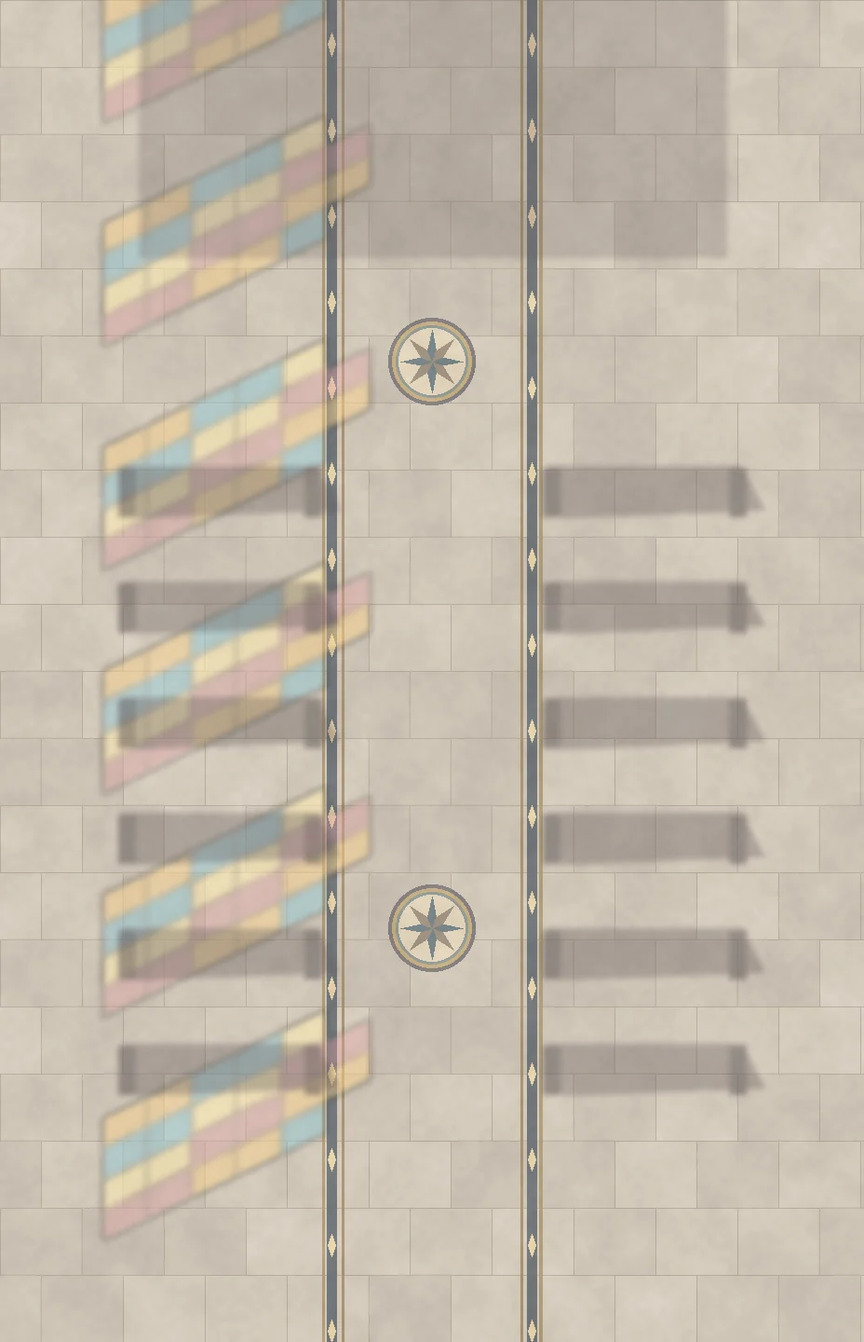
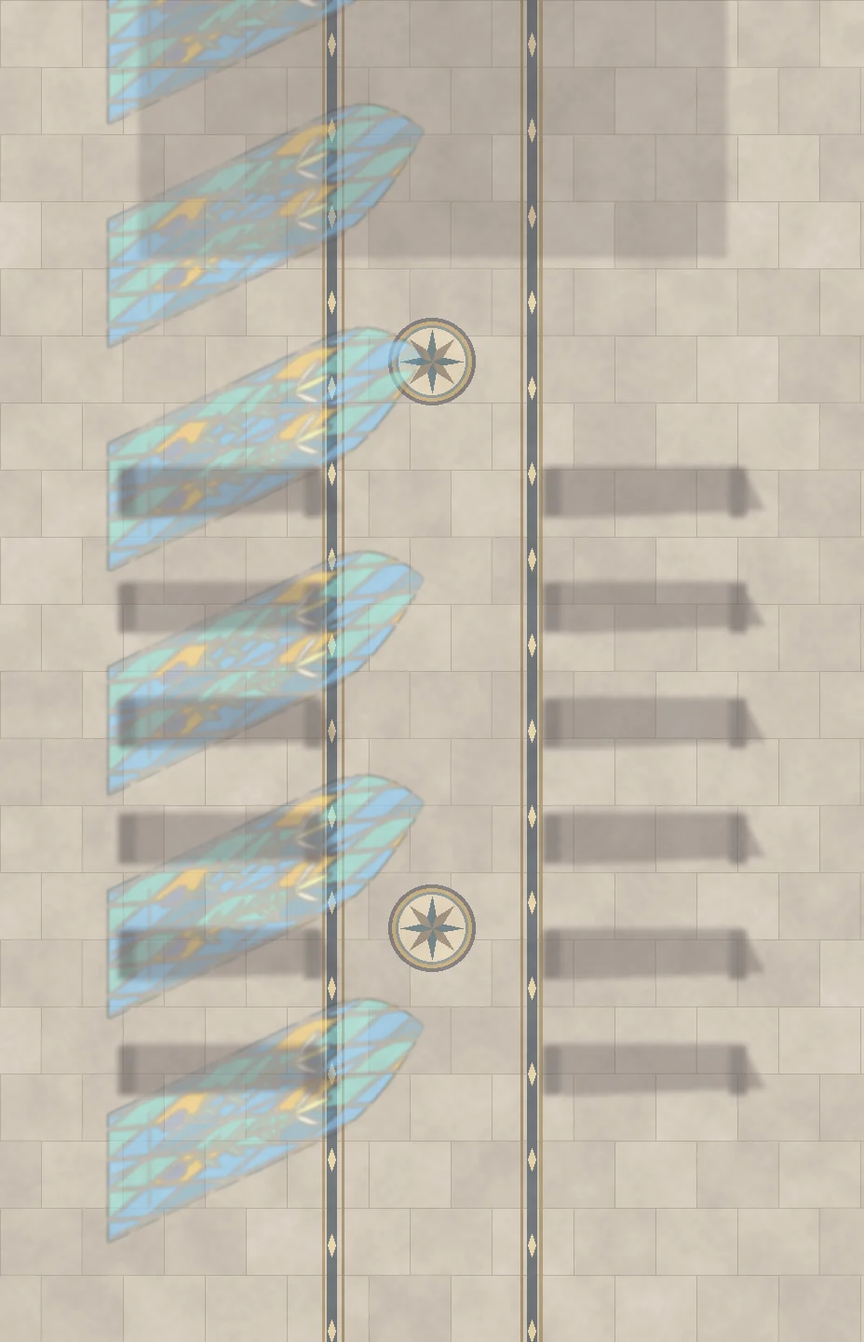
Open Dawn Chapel onto a cloister garden and transmit light through its stained glass

diff --git a/src/mmdVrShowcase/scenery/ChapelGarden.tsx b/src/mmdVrShowcase/scenery/ChapelGarden.tsx
@@ -1,0 +1,97 @@
+import {useEffect,useMemo} from 'react';
+import {useFrame} from '@react-three/fiber';
+import {Color,DoubleSide,Float32BufferAttribute,LatheGeometry,Vector2,type Texture} from 'three';
+import {BEDS,CISTERN,CYPRESSES,GARDEN,LOGGIA} from './ChapelLayout';
+import {Batch,type Part} from './SceneryBatch';
+import {span} from './detailParts';
+import {seededRandom} from './ClassroomLayout';
+import {noPick} from './sceneryPaint';
+import {useBakedSurface} from './useBakedSurface';
+import paving from './chapel-garden.webp';
+
+type V=Part['p'];const stone='#d7c9af',gold='#ba965f',slate='#607675',shade='#b4a68f';
+function lathe(profile:number[][],segments:number){return new LatheGeometry(profile.map(([r,h])=>new Vector2(r,h)),segments);}
+function gardenParts(){const blocks:Part[]=[],round:Part[]=[],trees:Part[]=[],hedges:Part[]=[],hills:Part[]=[],rnd=seededRandom(8483);
+  const box=(p:V,s:V,color:string,rz=0,ry=0)=>blocks.push({p,s,color,rz,ry});
+  const column=(p:V,s:V,color:string)=>round.push({p,s,color});
+  // Slate roof above the stone vault, and a pierced bellcote on the entrance gable.
+  for(const k of [-1,1]){const slope=.47;box([k*3.05,8.31,0],[6.10*Math.sqrt(1+slope*slope),.20,18.65],slate,-k*Math.atan(slope));
+    for(const z of [-9.23,9.23])blocks.push(span([0,9.82,z],[k*6.17,6.91,z],.21,stone));
+    box([k*5.82,5.89,0],[.20,1.91,18.20],stone);box([k*5.95,6.92,0],[.37,.14,18.58],shade);
+    for(const z of [-9,9])for(let i=0;i<18;i++){
+      const x=(i+.5)*5.8/18,height=9.69-slope*x;
+      const t=Math.acos(1-(1-x/5.8)*(1-Math.cos(Math.PI*.415)))/(Math.PI*.415);
+      const bottom=4.95+3.6*Math.sin(t*Math.PI*.415)/Math.sin(Math.PI*.415);
+      box([k*x,(height+bottom)/2,z-.018*Math.sign(z)],[5.8/18+.003,Math.max(.02,height-bottom+.06),.09],stone);
+    }
+    for(const z of [-9,-6,-3,0,3,6,9]){box([k*6,.43,z],[.78,.86,.64],shade);box([k*5.98,2.02,z],[.51,2.49,.49],stone);box([k*5.94,3.40,z],[.53,.25,.53],shade);}
+    box([k*.86,10.16,9.08],[.44,1.93,.52],stone);box([k*.86,10.91,9.08],[.50,.14,.61],shade);
+    blocks.push(span([k*1.21,11.13,9.08],[0,12.08,9.08],.22,stone,.61));}
+  box([0,9.35,9.08],[2.25,.23,.72],stone);box([0,10.92,9.06],[1.84,.13,.23],'#69554a');
+  box([0,12.38,9.08],[.063,.66,.064],gold);box([0,12.45,9.08],[.37,.065,.065],gold);
+  // Portal stone bands and bronze nailheads are readable on the return walk.
+  for(const sign of [-1,1]){box([sign*1.76,1.43,9.10],[.23,2.86,.33],shade);for(let i=0;i<13;i++){
+    const a=i*Math.PI/26,b=(i+1)*Math.PI/26;blocks.push(span([sign*1.76*Math.cos(a),2.78+1.76*Math.sin(a),9.13],[sign*1.76*Math.cos(b),2.78+1.76*Math.sin(b),9.13],.19,i%3?stone:'#c6b494',.33));}
+    for(const z of [9.22,10.09])for(const y of [.37,1.21,2.6])box([sign*1.446,y,z],[.052,.043,.043],gold);}
+  // Formal parterres: stone coping, lavender mounds and scattered pale flowers.
+  for(const b of BEDS){box([b.x,.095,b.z],[b.w,.19,b.d],shade);box([b.x,.18,b.z],[b.w-.16,.10,b.d-.16],'#797757');
+    for(const k of [-1,1]){box([b.x+k*(b.w/2-.08),.23,b.z],[.17,.14,b.d],stone);box([b.x,.23,b.z+k*(b.d/2-.08)],[b.w,.14,.16],stone);}
+    for(let j=0;j<44;j++){const x=b.x+(rnd()-.5)*(b.w-.75),z=b.z+(rnd()-.5)*(b.d-.73);hedges.push({p:[x,.34,z],s:[.52+rnd()*.49,.44+rnd()*.32,.56+rnd()*.37],ry:rnd()*3,color:['#829776','#839488','#98a77b'][j%3]});
+      for(let k=0;k<4;k++){const a=k*1.55+rnd();hedges.push({p:[x+.15*Math.sin(a),.58+rnd()*.12,z+.16*Math.cos(a)],s:[.071,.19+rnd()*.11,.073],rz:.22*Math.sin(a),color:['#b2a7c1','#9b95b1','#c8bdc9','#dbcaad'][j%4]});}}
+  }
+  for(const {x,z} of LOGGIA){box([x,.09,z],[.58,.18,.58],shade);column([x,1.16,z],[.30,2.02,.30],stone);box([x,2.22,z],[.49,.16,.49],stone);}
+  for(const x of [-12.65,-9.9]){for(let j=0;j<4;j++){const z=18.5+j*3;for(let i=0;i<12;i++){
+    const pt=(k:number):V=>[x,2.24+1.12*Math.sin(k*Math.PI/12),z+1.50*Math.cos(k*Math.PI/12)];blocks.push(span(pt(i),pt(i+1),.20,stone,.22));}}
+    box([x,3.46,23],[.36,.19,12.53],stone);}
+  for(let z=16.85;z<29.3;z+=.55)box([-11.28,3.65,z],[3.39,.19,.126],'#826e58');
+  // Enclose the paved ground, leaving the skyline visible above these low walls.
+  for(const s of [-1,1]){box([s*(GARDEN.half-.09),.36,10.6],[.20,.72,44.8],stone);box([s*(GARDEN.half-.09),.75,10.6],[.28,.09,44.8],shade);}
+  for(const z of [GARDEN.back+.1,GARDEN.front-.1]){box([0,.34,z],[27.6,.68,.22],stone);box([0,.70,z],[27.6,.08,.32],shade);}
+  for(const {x,z,h} of CYPRESSES){column([x,.58,z],[.29,1.16,.29],'#73624e');trees.push({p:[x,.76,z],s:[1.05,h,1.08],ry:rnd()*6,color:'#829779'});
+    for(let j=0;j<14;j++){const a=j*2.399,t=j/15,r=.47*(1-t*.69);trees.push({p:[x+Math.sin(a)*r,.8+t*h*.72,z+Math.cos(a)*r],s:[.53*(1-t*.56),h*(.27+.10*rnd()),.55*(1-t*.46)],rx:.08*Math.cos(a),rz:-.09*Math.sin(a),color:j%2?'#809373':'#6e876e'});}}
+  // A Tuscan ridge with a few terracotta farmhouses seen through the doorway.
+  for(let i=0;i<32;i++){const a=i*2.399;hills.push({p:[Math.sin(a)*(34+rnd()*19),-1.6,10+Math.cos(a)*(32+rnd()*14)],s:[14+rnd()*14,5+rnd()*7,9+rnd()*10],ry:a,color:i%2?'#92aaa0':'#acb79c'});}
+  for(let i=0;i<8;i++){const x=-22+i*6.3,z=39+3*Math.sin(i*2),h=2.9+rnd()*1.35,w=2.6+rnd()*1.3;
+    hills.push({p:[x,-1.95,z],s:[8,5.8,6],ry:i,color:'#a8b89c'});
+    box([x,h*.5-1,z],[w,h+2,2.1],i%2?'#e1caa5':'#d6bda7');for(const k of [-1,1])box([x+k*w*.27,h+.17,z],[w*.57,.13,2.38],'#b38068',-k*.29);
+    for(const k of [-1,0,1]){box([x+k*w*.31,h-.63,z-1.063],[.30,.53,.045],'#6a766d');box([x+k*w*.31,h-.93,z-1.07],[.37,.07,.07],'#b6a58d');}box([x+w*.31,h+.41,z+.45],[.25,.57,.24],'#c69e86');}
+  return {blocks,round,trees,hedges,hills};
+}
+
+// A low-cost rippled reflection of the dawn sky over a patterned basin; no
+// stereo reflection buffers. A radial wave starts beneath the stone finial.
+function BasinWater(){const uniforms=useMemo(()=>({t:{value:0}}),[]);useFrame((_,dt)=>{uniforms.t.value=(uniforms.t.value+Math.min(dt,.1))%240});
+  return <mesh rotation-x={-Math.PI/2} position-y={.48} raycast={noPick}><circleGeometry args={[1.78,56]}/><shaderMaterial uniforms={uniforms}
+    vertexShader={`varying vec2 p;varying vec3 eye;void main(){p=position.xy;vec4 w=modelMatrix*vec4(position,1.);eye=cameraPosition-w.xyz;gl_Position=projectionMatrix*viewMatrix*w;}`}
+    fragmentShader={`uniform float t;varying vec2 p;varying vec3 eye;void main(){float r=length(p);float w=sin(r*28.-t*2.)*.5+.5;vec2 d=normalize(p+.00001)*(.035*cos(r*28.-t*2.))+.021*vec2(sin(p.y*12.+t),cos(p.x*15.-t));vec3 n=normalize(vec3(d.x,1.,-d.y)),v=normalize(eye);
+    float fr=pow(1.-max(dot(v,n),0.),3.);vec3 refl=reflect(-v,n);float sky=smoothstep(-.06,.65,refl.y);vec3 water=mix(vec3(.074,.258,.244),vec3(.22,.48,.41),smoothstep(.3,1.7,r));
+    vec2 tile=fract((p+d*.43)*8.);float grout=smoothstep(.015,.08,min(tile.x,tile.y));water*=.86+.14*grout;vec3 col=mix(water,mix(vec3(.78,.63,.42),vec3(.50,.72,.81),sky),.14+.66*fr);col+=vec3(.15,.19,.14)*pow(w,12.)*exp(-r*.7);gl_FragColor=vec4(col,1.);
+    #include <tonemapping_fragment>
+    #include <colorspace_fragment>
+    }`}/></mesh>;}
+
+export function ChapelGarden({shadows,rose}:{shadows:boolean;rose?:Texture}){
+  const p=useMemo(gardenParts,[]),map=useBakedSurface(paving);
+  const g=useMemo(()=>{
+    const tree=lathe([[.08,0],[.46,.08],[.64,.20],[.59,.38],[.48,.55],[.39,.72],[.24,.86],[.05,.98],[.008,1]],16),pos=tree.getAttribute('position'),rgb=[];const c=new Color();
+    for(let i=0;i<pos.count;i++){const y=pos.getY(i),x=pos.getX(i),z=pos.getZ(i),s=1+.119*Math.sin(x*21+z*11+y*23);pos.setXYZ(i,x*s+.06*y*y,y,z*s);const n=.62+.26*y+.14*Math.sin(x*19-z*13+y*23);c.setRGB(n,n*1.05,n*.93);rgb.push(c.r,c.g,c.b);}tree.setAttribute('color',new Float32BufferAttribute(rgb,3));tree.computeVertexNormals();
+    return {tree,bell:lathe([[.03,0],[.43,0],[.44,.05],[.37,.12],[.29,.24],[.22,.49],[.13,.60],[.05,.63]],24),
+      curb:lathe([[1.67,.05],[2.04,.05],[2.04,.18],[1.96,.24],[1.96,.48],[2.025,.50],[2.025,.58],[1.78,.58],[1.75,.49],[1.72,.28]],48),
+      font:lathe([[.44,0],[.37,.15],[.17,.34],[.14,.51],[.58,.69],[.63,.77],[.54,.79],[.18,.68],[.12,1.06],[.06,1.16]],40)};},[]);
+  useEffect(()=>()=>Object.values(g).forEach(o=>o.dispose()),[g]);
+  return <group name="chapel:garden">
+    <mesh rotation-x={-Math.PI/2} position={[0,-.015,(GARDEN.front+GARDEN.back)/2]} receiveShadow={shadows} raycast={noPick}><planeGeometry args={[GARDEN.half*2,GARDEN.front-GARDEN.back]}/><meshStandardMaterial key={map?'paved':'plain'} color={map?'white':'#d8cfbd'} map={map} roughness={.92}/></mesh>
+    <Batch parts={p.blocks} name="chapel:cloister" casts={shadows}/><Batch parts={p.round} round name="chapel:cloister-shafts" casts={shadows}/>
+    <Batch parts={p.trees} geometry={g.tree} name="chapel:cypresses" casts={shadows}/><Batch parts={p.hedges} foliage name="chapel:lavender"/><Batch parts={p.hills} foliage name="chapel:ridge"/>
+    <mesh geometry={g.bell} position={[0,10.28,9.08]} raycast={noPick}><meshStandardMaterial color="#8c8163" roughness={.56} side={DoubleSide}/></mesh>
+    <group position={[0,6.10,9.07]}>
+      {rose&&<mesh raycast={noPick}><circleGeometry args={[.96,48]}/><meshStandardMaterial map={rose} roughness={.70} color="#e2d5c6"/></mesh>}
+      {[[.98,.075],[1.12,.056]].map(([r,t])=><mesh key={r} raycast={noPick}><torusGeometry args={[r,t,8,56]}/><meshStandardMaterial color={stone}/></mesh>)}
+    </group>
+    <group name="chapel:lily-cistern" position={[CISTERN.x,0,CISTERN.z]}>
+      <mesh geometry={g.curb} raycast={noPick}><meshStandardMaterial color="#d2be9c" side={DoubleSide}/></mesh>
+      <BasinWater/>
+      <mesh geometry={g.font} position-y={.46} raycast={noPick}><meshStandardMaterial color="#a89e81" side={DoubleSide}/></mesh>
+    </group>
+  </group>;
+}

diff --git a/src/mmdVrShowcase/scenery/DawnChapel.tsx b/src/mmdVrShowcase/scenery/DawnChapel.tsx
@@ -1,5 +1,5 @@
 import { useEffect, useMemo, useState } from 'react';
-import { BufferGeometry, Color, DoubleSide, Float32BufferAttribute, OctahedronGeometry, RepeatWrapping, SRGBColorSpace, TextureLoader, type Texture } from 'three';
+import { BufferGeometry, Color, DoubleSide, Float32BufferAttribute, OctahedronGeometry, Path, RepeatWrapping, Shape, ShapeGeometry, SRGBColorSpace, TextureLoader, type Texture } from 'three';
 import { CHAPEL, CHAPEL_BAYS, CHAPEL_DAIS, CHAPEL_PEWS, CHAPEL_PIERS } from './ChapelLayout';
 import { Batch, type Part } from './SceneryBatch';
 import { noPick } from './sceneryPaint';
@@ -8,6 +8,8 @@ import roseURL from './chapel-rose.webp';
 import lancetURL from './chapel-lancet.webp';
 import stoneURL from './chapel-ashlar.webp';
 import floorURL from './chapel-pavement.webp';
+import { ChapelGarden } from './ChapelGarden';
+import { ChapelGlass } from './ChapelGlass';
 
 type V = Part['p'];
 const half=CHAPEL.width/2, end=CHAPEL.length/2;
@@ -33,15 +35,17 @@ function chapelSurfaces(){
   const shell=new Surface(),glass=new Surface();
   for(const side of [-1,1]){
     const Y=CHAPEL.shoulder;
-    shell.quad([side*half,0,-end],[side*half,0,end],[side*half,Y,end],[side*half,Y,-end],[[0,0],[9,0],[9,Y/3],[0,Y/3]]);
     for(const z of CHAPEL_BAYS){
-      // Single opaque leaded pane in a moulded recess. Crop the same cartoon to
-      // a pointed crown; don't alpha-blend layered cards across the stereo view.
-      const x=side*(half-.037),w=.86,sill=1.17,spring=3.59,top=4.61;
+      const x=side*half,w=.86,sill=1.17,spring=3.59,top=4.61;
+      const wall=(a:number,b:number,h1:number,h2:number,upper:number)=>{
+        const pts:V[]=[[x,h1,z+a],[x,h2,z+b],[x,upper,z+b],[x,upper,z+a]];
+        shell.quad(pts[0],pts[1],pts[2],pts[3],pts.map(q=>[q[2]/2,q[1]/3]));};
+      wall(-1.5,-w,0,0,Y);wall(w,1.5,0,0,Y);wall(-w,w,0,0,sill);
       const pt=(u:number,h:number):V=>[x,h,z+u];
       const uv=(u:number,h:number)=>[.5+u/(2*w),(h-sill)/(top-sill)];
       const edge:[number,number][]=[[-w,sill],[w,sill],[w,spring]];
       for(let j=1;j<=16;j++){const u=w*(1-j/8);edge.push([u,spring+(top-spring)*Math.sqrt(1-Math.abs(u/w))]);}
+      for(let j=2;j<edge.length-1;j++)wall(edge[j+1][0],edge[j][0],edge[j+1][1],edge[j][1],Y);
       for(let j=0;j<edge.length;j++){const a=edge[j],b=edge[(j+1)%edge.length];glass.tri([pt(0,spring),pt(...a),pt(...b)],[uv(0,spring),uv(...a),uv(...b)]);}
       for(let i=0;i<12;i++){
         const u=i/12,v=(i+1)/12;
@@ -49,11 +53,15 @@ function chapelSurfaces(){
         for(let k=-1;k<1;k++) shell.quad(web(u,k),web(v,k),web(v,k+1),web(u,k+1),[[u*3,k*.75],[v*3,k*.75],[v*3,(k+1)*.75],[u*3,(k+1)*.75]],'#d2c8be');
       }
     }
-    for(const z of [-end,end])for(let i=0;i<16;i++){
-      const p=arch(side,i/16,z),q=arch(side,(i+1)/16,z);
-      shell.quad([p[0],0,z],[q[0],0,z],q,p,[[p[0]/2,0],[q[0]/2,0],[q[0]/2,q[1]/3],[p[0]/2,p[1]/3]]);
-    }
   }
+  // Triangulate the actual gable outlines: the rose and the garden door are
+  // apertures. Geometry behind the pane is visible from either side in stereo.
+  for(const z of [-end,end]){const outline=new Shape();outline.moveTo(-half,0);
+    if(z===end){outline.lineTo(-1.42,0);outline.lineTo(-1.42,2.78);outline.absarc(0,2.78,1.42,Math.PI,0,true);outline.lineTo(1.42,0);}
+    outline.lineTo(half,0);for(let i=0;i<=32;i++){const v=arch(i<=16?1:-1,i<=16?i/16:(32-i)/16,z);outline.lineTo(v[0],v[1]);}outline.closePath();
+    if(z<0){const hole=new Path();hole.absarc(0,4.91,1.72,0,Math.PI*2,true);outline.holes.push(hole);}
+    const g=new ShapeGeometry(outline,36),idx=g.index!,p=g.getAttribute('position');
+    for(let i=0;i<idx.count;i+=3){const pts=[0,1,2].map(j=>{const n=idx.getX(i+j);return [p.getX(n),p.getY(n),z] as V});shell.tri(pts,pts.map(q=>[q[0]/2,q[1]/3]));}g.dispose();}
   return {masonry:shell.finish(),lancets:glass.finish()};
 }
 
@@ -156,11 +164,13 @@ function fittings(){
       const a=i*2.4;const tip:V=[x+.22*Math.sin(a),1.65+(i%4)*.10,z+.20*Math.cos(a)];ribs.push(span([x,1.41,z],tip,.018,'#778362'));
       for(let k=0;k<5;k++){const b=k*Math.PI*2/5+i;flowers.push({p:[tip[0]+.039*Math.cos(b),tip[1]+.02,tip[2]+.039*Math.sin(b)],s:[.043,.066,.034],rx:.6*Math.cos(b),rz:.6*Math.sin(b),color:i%3?'#f8efd7':'#d7bcc2'});}
     }
-    // Carved double doors and small brass pulls finish the view on turning around.
-    box([sign*.70,1.61,8.91],[1.38,3.22,.13],wood);
-    for(const x of [sign*.17,sign*1.23])box([x,1.57,8.816],[.096,3.03,.057],edgeWood);
-    for(const y of [.23,1.08,2.82])box([sign*.70,y,8.813],[1.26,.10,.064],edgeWood);
-    round([sign*.19,1.15,8.76],[.053,.18,.053],gold);
+    // The oak leaves swing out against the reveals, framing the view out.
+    box([sign*1.53,1.48,9.68],[.13,2.96,1.36],wood);
+    for(const z of [9.10,10.24])box([sign*1.45,1.51,z],[.055,2.81,.083],edgeWood);
+    for(const y of [.23,1.08,2.76])box([sign*1.45,y,9.68],[.055,.094,1.26],edgeWood);
+    round([sign*1.405,1.16,10.14],[.05,.18,.05],gold);
+    box([sign*1.52,1.38,8.98],[.21,2.76,.46],capital);
+    for(let j=0;j<14;j++){const a=j*Math.PI/28,b=(j+1)*Math.PI/28;ribs.push(span([sign*1.52*Math.cos(a),2.78+1.52*Math.sin(a),9.03],[sign*1.52*Math.cos(b),2.78+1.52*Math.sin(b),9.03],.20,capital,.36));}
   }
   return {blocks,rounds,ribs,lights,flowers};
 }
@@ -183,10 +193,11 @@ export function DawnChapel({shadows}:{shadows:boolean}){
     <mesh rotation-x={-Math.PI/2} receiveShadow={shadows} raycast={noPick}><planeGeometry args={[CHAPEL.width,CHAPEL.length]}/><meshStandardMaterial key={maps.floor?'inlay':'plain'} color={maps.floor?'white':'#d1c4b4'} map={maps.floor??null} roughness={.86}/></mesh>
     <Batch parts={p.blocks} name="chapel:joinery" casts={shadows}/><Batch parts={p.rounds} name="chapel:turnings" round casts={shadows}/>
     <Batch parts={p.ribs} name="chapel:ribs" round/><Batch parts={p.flowers} name="chapel:lilies" geometry={petal}/><Batch parts={p.lights} name="chapel:candlelight" geometry={petal} lit/>
-    <mesh name="chapel:side-glass" geometry={surface.lancets} raycast={noPick}><meshBasicMaterial key={maps.glass?'ready':'loading'} map={maps.glass??null} color={maps.glass?'white':'#c4d9d9'} side={DoubleSide} toneMapped={false}/></mesh>
+    {maps.glass&&<mesh name="chapel:side-glass" geometry={surface.lancets} raycast={noPick}><ChapelGlass map={maps.glass}/></mesh>}
     <group position={[0,4.91,-8.93]}>
-      <mesh raycast={noPick}><circleGeometry args={[1.74,80]}/><meshBasicMaterial key={maps.rose?'ready':'loading'} color={maps.rose?'white':'#bccad1'} map={maps.rose??null} toneMapped={false}/></mesh>
+      {maps.rose&&<mesh name="chapel:rose-glass" raycast={noPick}><circleGeometry args={[1.74,80]}/><ChapelGlass map={maps.rose}/></mesh>}
       {([ [1.71,.053,'#aa9577'],[1.81,.086,shadowStone],[1.94,.070,capital] ] as const).map(([r,t,color])=><mesh key={r} position-z={t} raycast={noPick}><torusGeometry args={[r,t,8,80]}/><meshStandardMaterial color={color}/></mesh>)}
     </group>
+    <ChapelGarden shadows={shadows} rose={maps.rose}/>
   </group>;
 }

diff --git a/src/mmdVrShowcase/screen/ScreenStage.tsx b/src/mmdVrShowcase/screen/ScreenStage.tsx
@@ -12,8 +12,7 @@ import { isStoryRoom } from '../play/stagePlay';
 import { StoryStations } from '../play/StoryStations';
 import { PrepIcon } from '../prep/PrepIcon';
 import { resolveScenery, SCENERY, sceneryIds } from '../scenery/catalog';
-import { ScreenCamera, type CameraActions } from './ScreenCamera';
-import { COURT_SHOTS } from '../scenery/ObservatoryLayout';
+import { ScreenCamera, tourShots, type CameraActions } from './ScreenCamera';
 import { ScreenLibrary } from './ScreenLibrary';
 import './screen-stage.css';
 
@@ -54,7 +53,7 @@ export function ScreenStage(){
         <MmdVrStageContent/><StoryStations/><BackpackPlacement onScreenPick={()=>setLibrary(true)}/><ScreenCamera actions={actions}/>
       </Canvas></MmdVrThemeProvider>
       <div className="screen-corner"><button aria-expanded={library&&!draft} onClick={()=>{if(draft){useBackpack.getState().cancelPlace();setLibrary(true);}else setLibrary(v=>!v);}}><PrepIcon name="bag"/>{t('hudBackpack')}</button><button onClick={()=>actions.current?.reset()}>{t('settingsMmdVrResetView')}</button>
-        {prefs.scenery==='astralCourt'&&<select aria-label={t('courtTour')} value="" onChange={e=>actions.current?.tour(Number(e.target.value))}><option value="" disabled>{t('courtTour')}</option>{COURT_SHOTS.map((s,i)=><option key={s.key} value={i}>{t(s.key)}</option>)}</select>}
+        {tourShots(prefs.scenery).length>0&&<select aria-label={t('courtTour')} value="" onChange={e=>actions.current?.tour(Number(e.target.value))}><option value="" disabled>{t('courtTour')}</option>{tourShots(prefs.scenery).map((s,i)=><option key={s.key} value={i}>{t(s.key)}</option>)}</select>}
       </div>
       <div className="screen-caption" role="status">{message?<><span>{message}</span>{load.failures.length>0&&<button disabled={locked} onClick={stage.retryFailedAssets}>{t('loadRetry')}</button>}{err&&<button onClick={()=>useBackpack.getState().dismissError()}>{t('hudDone')}</button>}</>:locked?t('hudWorking'):draft?<><span>{t('screenAim')}</span><button onClick={()=>actions.current?.center()}>{t('screenCenter')}</button><button onClick={()=>useBackpack.getState().cancelPlace()}>{t('hudCancelPlace')}</button></>:t('screenOrbit')}</div>
     </div>{library&&!draft&&<ScreenLibrary locked={locked} frame={()=>actions.current?.frame()} storyView={isStoryRoom(prefs.scenery)?()=>actions.current?.story():undefined} close={()=>setLibrary(false)}/>}</div>

diff --git a/src/mmdVrShowcase/screen/ScreenCamera.tsx b/src/mmdVrShowcase/screen/ScreenCamera.tsx
@@ -7,6 +7,8 @@ import { useMmdVrStore } from '../mmdVrStore';
 import type { SceneryId } from '../scenery/catalog';
 import { isStoryRoom, type StoryRoom } from '../play/stagePlay';
 import { COURT_SHOTS } from '../scenery/ObservatoryLayout';
+import { CHAPEL_SHOTS } from '../scenery/ChapelLayout';
+export const tourShots=(room:SceneryId)=>room==='chapel'?CHAPEL_SHOTS:room==='astralCourt'?COURT_SHOTS:[];
 
 type Point = [number,number,number];
 const views: Record<SceneryId,[Point,Point]> = {
@@ -36,7 +38,7 @@ export function ScreenCamera({actions}:{actions:RefObject<CameraActions|null>}) 
       const dist=Math.min(20,Math.max(.4, .68*Math.max(h,Math.max(w,d)/Math.max(.15,camera.aspect))/Math.tan(camera.fov*Math.PI/360)+Math.max(w,d)*.5));
       const dir=camera.position.clone().sub(orbit.target).normalize();orbit.target.copy(target);camera.position.copy(target).addScaledVector(dir,dist);orbit.update();
     };
-    actions.current={reset,frame,tour(index){const shot=COURT_SHOTS[index];if(scenery==='astralCourt'&&shot){setLens(index===0?Math.min(130,Math.max(99,2*Math.atan(1.1/camera.aspect)*180/Math.PI)):50);camera.position.set(...shot.eye);orbit.target.set(...shot.aim);orbit.update();}},story(){if(isStoryRoom(scenery)){const [eye,look]=storyViews[scenery];camera.position.set(...eye);orbit.target.set(...look);orbit.update();}},center(){const b=useBackpack.getState(),s=useMmdVrStore.getState();if(!b.draft||s.physicsBusy||s.assetLoad.running||s.physicsFatal)return;
+    actions.current={reset,frame,tour(index){const shot=tourShots(scenery)[index];if(shot){setLens(scenery==='astralCourt'&&index===0?Math.min(130,Math.max(99,2*Math.atan(1.1/camera.aspect)*180/Math.PI)):50);camera.position.fromArray(shot.eye);orbit.target.fromArray(shot.aim);orbit.update();}},story(){if(isStoryRoom(scenery)){const [eye,look]=storyViews[scenery];camera.position.set(...eye);orbit.target.set(...look);orbit.update();}},center(){const b=useBackpack.getState(),s=useMmdVrStore.getState();if(!b.draft||s.physicsBusy||s.assetLoad.running||s.physicsFatal)return;
       const prev=b.live[b.draft], transform=prev&&(s.models.find(m=>m.id===prev.runtimeId)??s.objects.find(o=>o.id===prev.runtimeId));
       b.confirmPlace(b.draft,0,0,transform?.rotationY??Math.atan2(camera.position.x,camera.position.z)*180/Math.PI);
     }};

diff --git a/src/mmdVrShowcase/scenery/ChapelLayout.ts b/src/mmdVrShowcase/scenery/ChapelLayout.ts
@@ -1,9 +1,27 @@
-// The limestone floor is the only supported y=0 plane. Leave two clear side
-// passages as well as the processional aisle; the altar stands on shallow steps.
+// Nave, doorway and paved garden meet at y=0. Raised planting beds, cistern
+// and cloister piers have the same footprints in rendering and placement.
 export const CHAPEL = { width:11.6, length:18, shoulder:4.95, crown:8.55, bay:3 };
 export const CHAPEL_BAYS = Array.from({length:6},(_,i)=>-7.5+3*i);
 export const CHAPEL_PIERS = [-1,1].flatMap(side=>Array.from({length:7},(_,i)=>({x:side*5.55,z:-9+i*3,w:.58,d:.66})));
 export const CHAPEL_PEWS = [-2.4,-.85,.70,2.25,3.8,5.35].flatMap(z=>[-1,1].map(side=>({x:side*2.85,z,w:2.65,d:.78})));
 export const CHAPEL_DAIS = {x:0,z:-7.30,w:7.8,d:3.4};
 export const CHAPEL_SUN: [number,number,number] = [-5.8,4.7,2.8];
-export const CHAPEL_OBSTACLES = [CHAPEL_DAIS,...CHAPEL_PEWS,...CHAPEL_PIERS];
+export const GARDEN={half:13.8,front:33,back:-11.8,door:1.42};
+export const CISTERN={x:0,z:24,r:2.04};
+export const BEDS=[-1,1].flatMap(k=>[15,25.8].map(z=>({x:k*6.35,z,w:3.6,d:z===15?6.6:7.4})));
+export const LOGGIA=[17,20,23,26,29].flatMap(z=>[-12.65,-9.9].map(x=>({x,z,w:.58,d:.58})));
+export const CYPRESSES=[-1,1].flatMap(k=>[-7,-1,5].map(z=>({x:k*9.7,z,h:z===-1?5.2:6.2}))).concat([{x:9.6,z:31,h:6.8},{x:12.1,z:24,h:6.05},{x:-8.5,z:31,h:6.2}]);
+export const CHAPEL_OBSTACLES = [CHAPEL_DAIS,...CHAPEL_PEWS,...CHAPEL_PIERS,...BEDS,...LOGGIA,...CYPRESSES.map(t=>({...t,w:.85,d:.85})),...[-1,1].map(s=>({x:s*1.53,z:9.68,w:.26,d:1.44}))];
+export function chapelFloor(x:number,z:number){
+  if(Math.abs(x)>GARDEN.half-.2||z>GARDEN.front-.24||z<GARDEN.back+.2)return false;
+  const ax=Math.abs(x),az=Math.abs(z);
+  if(ax<CHAPEL.width/2-.12&&az<CHAPEL.length/2-.12)return true;
+  if(z>8.55&&z<9.6&&ax<GARDEN.door-.06)return true;
+  return (ax>CHAPEL.width/2+.72||az>CHAPEL.length/2+.23)&&Math.hypot(x-CISTERN.x,z-CISTERN.z)>CISTERN.r+.06;
+}
+export const CHAPEL_SHOTS=[
+  {key:'chapelWindow',eye:[-2.0,1.61,-.15],aim:[-5.78,2.65,-1.57]},
+  {key:'chapelDoor',eye:[.54,1.61,5.85],aim:[-.06,1.53,17.0]},
+  {key:'chapelGarden',eye:[2.95,1.62,17.8],aim:[-.67,1.38,25.6]},
+  {key:'chapelFacade',eye:[6.15,2.04,29.9],aim:[0,4.6,8.2]},
+] as const;

diff --git a/src/i18n/en.ts b/src/i18n/en.ts
@@ -5,7 +5,8 @@ export const en: Record<keyof ZhMessages, string> = {
   importBindResource: "Choose a file for this reference",
   hudBack: "Back to viewing",
   hudScenery: "Scenery",
-  courtTour:'Visit a terrace',courtOverview:'Bridge junction from above',courtNorth:'North observatory',courtWest:'West chart gallery',courtEast:'East meridian scope',courtReturn:'Look back at the gate',
+  courtTour:'Tour viewpoints',courtOverview:'Bridge junction from above',courtNorth:'North observatory',courtWest:'West chart gallery',courtEast:'East meridian scope',courtReturn:'Look back at the gate',
+  chapelWindow:'Lily window',chapelDoor:'Through the open doors',chapelGarden:'Lavender court',chapelFacade:'Chapel from the basin',
   visitKite:'To meadow',visitEncore:'To club',visitFerry:'To pool',visitPost:'To studio',toyHoldOrVisit:'Hold here, visit set to play',toyList:'All handheld props',
   toyKite:'Bamboo reel',toyKiteHint:'Squeeze to switch winds',toyEncore:'Ribbon microphone',toyEncoreHint:'Aim at a wing and squeeze',toyShell:'Shell blower',toyShellHint:'Aim at a gate and squeeze',
   storyKite:'After-school kite stand',storyFerry:'Bubble ferry',storyEncore:'Encore print shop',storyWindLeft:'Left wind',storyWindRight:'Right wind',storyFerryLeft:'Left gate',storyFerryRight:'Right gate',storyDyeLeft:'Print left wing',storyDyeRight:'Print right wing',storyClear:'Clear print',storyView:'Frame the scene',storyProp:'Character prop',storyKiteHelp:'Choose a wind to fly the kite. Select a character to hand over the reel.',storyFerryHelp:'Choose a shell gate to send the boat through it.',storyEncoreHelp:'Print both wings. The first sets the reveal direction. Hand the mic to a character.',

diff --git a/src/mmdVrShowcase/scenery/placementAreas.test.ts b/src/mmdVrShowcase/scenery/placementAreas.test.ts
@@ -10,7 +10,13 @@ describe('placeable ground at foot height', () => {
   it('preserves the chapel portrait and procession lanes but rejects pews, pier feet, steps and positions beyond the walls',()=>{
     for(let z=-5.26;z<7.8;z+=.15)for(const x of [-4.8,-.85,0,.85,4.8])expect(canPlaceInScenery('chapel',x,z)).toBe(true);
     for(const {x,z} of [...CHAPEL_PEWS,...CHAPEL_PIERS,CHAPEL_DAIS])expect(canPlaceInScenery('chapel',x,z)).toBe(false);
-    for(const [x,z] of [[1.49,-2.4],[0,-5.52],[5.68,1.5],[0,9.01]])expect(canPlaceInScenery('chapel',x,z)).toBe(false);
+    for(const [x,z] of [[1.49,-2.4],[0,-5.52],[5.68,1.5],[2.9,9.01]])expect(canPlaceInScenery('chapel',x,z)).toBe(false);
+  });
+  it('lets actors pass through the opened chapel door and around the water garden, but not through its masonry or planting',()=>{
+    for(let z=6;z<20;z+=.125)for(const x of [-.88,0,.88])expect(canPlaceInScenery('chapel',x,z)).toBe(true);
+    for(let z=12;z<32;z+=.25)expect(canPlaceInScenery('chapel',3.25,z)).toBe(true);
+    for(const [x,z] of [[1.55,9.85],[4,9],[0,24],[6.35,15],[-12.65,20],[9.7,-1],[0,33.1],[-14,18]])expect(canPlaceInScenery('chapel',x,z)).toBe(false);
+    expect(canPlaceInScenery('chapel',-11.15,22)).toBe(true);
   });
   it('leaves clear space under the broken arch but excludes the feet of every pier and the floating rim',()=>{
     for(const {x,z} of COURT_PIERS)expect(canPlaceInScenery('astralCourt',x,z)).toBe(false);

diff --git a/src/mmdVrShowcase/scenery/ChapelGlass.tsx b/src/mmdVrShowcase/scenery/ChapelGlass.tsx
@@ -1,0 +1,20 @@
+import {useMemo} from 'react';
+import {DoubleSide,type Texture} from 'three';
+
+/** Thin hand-rolled glass: pale panes transmit the garden, dense enamel and
+ * lead transmit much less. View-space incidence is evaluated per XR eye. */
+export function ChapelGlass({map}:{map:Texture}){
+  const uniforms=useMemo(()=>({cartoon:{value:map}}),[map]);
+  return <shaderMaterial uniforms={uniforms} transparent depthWrite={false} side={DoubleSide} forceSinglePass toneMapped={false}
+    vertexShader={`varying vec2 vUv;varying vec3 toEye,n;
+      void main(){vUv=uv;vec4 p=modelViewMatrix*vec4(position,1.);toEye=-p.xyz;n=normalMatrix*normal;gl_Position=projectionMatrix*p;}`}
+    fragmentShader={`uniform sampler2D cartoon;varying vec2 vUv;varying vec3 toEye,n;
+      void main(){vec3 dye=texture2D(cartoon,vUv).rgb;float l=dot(dye,vec3(.22,.65,.13));float glass=smoothstep(.095,.19,l);
+        float ripple=sin(vUv.x*104.+3.*sin(vUv.y*19.))+0.54*sin(vUv.y*123.+2.*sin(vUv.x*24.));
+        float fres=pow(clamp(1.-abs(dot(normalize(toEye),normalize(n))),0.,1.),3.);float flash=smoothstep(.93,1.52,ripple+fres*.38)*glass;
+        vec3 color=mix(vec3(.062,.067,.078),pow(dye,vec3(1.32))*1.36,glass);
+        color+=glass*(.047*fres+.033*flash)*vec3(.76,.91,1.); float opacity=mix(.99,clamp(.83-.52*l+.18*fres,.37,.91),glass);
+        gl_FragColor=vec4(color,opacity);
+        #include <colorspace_fragment>
+      }`}/>;
+}

diff --git a/src/mmdVrShowcase/scenery/placementAreas.ts b/src/mmdVrShowcase/scenery/placementAreas.ts
@@ -1,6 +1,6 @@
 import { CLASS_OBSTACLES, ROOM, seededRandom, type Footprint } from './ClassroomLayout';
 import type { SceneryId } from './catalog';
-import { CHAPEL, CHAPEL_OBSTACLES } from './ChapelLayout';
+import { chapelFloor, CHAPEL_OBSTACLES } from './ChapelLayout';
 import { OLD_COURT_RADIUS, onObservatoryFloor, ROUTE_FEET } from './ObservatoryLayout';
 
 // A placement is a point on a supported y=0 surface with a little shoe room;
@@ -74,7 +74,7 @@ export const LAWN_TREES = Array.from({ length: 19 }, (_, i) => {
 export function canPlaceInScenery(id: SceneryId, x: number, z: number): boolean {
   if (!Number.isFinite(x) || !Number.isFinite(z)) return false;
   switch (id) {
-    case 'chapel': return Math.abs(x)<CHAPEL.width/2-.30 && Math.abs(z)<CHAPEL.length/2-.30 && !CHAPEL_OBSTACLES.some(r=>hits(r,x,z));
+    case 'chapel': return shoeOffsets.every(([dx,dz])=>chapelFloor(x+dx,z+dz)) && !CHAPEL_OBSTACLES.some(r=>hits(r,x,z));
     case 'floor': return Math.hypot(x, z) <= SIMPLE_FLOOR_RADIUS - CLEAR;
     case 'astralCourt': return shoeOffsets.every(([dx,dz])=>onObservatoryFloor(x+dx,z+dz)) && !COURT_PIERS.some(p=>hits(p,x,z)) && !ROUTE_FEET.some(p=>hits(p,x,z));
     case 'liveHouse': return Math.max(Math.abs(x), Math.abs(z)) <= LIVE_DECK_SIZE / 2 - CLEAR &&

diff --git a/src/mmdVrShowcase/components/MmdVrStage.tsx b/src/mmdVrShowcase/components/MmdVrStage.tsx
@@ -1008,7 +1008,7 @@ export function MmdVrStageRoom({ scenery, saved, slots }: { scenery: SceneryId; 
       {mmdPrefs.stageFogEnabled ? (
         <fog attach="fog" args={[lightCfg.fogColor, Math.min(10, viewDistance * 0.45), viewDistance]} />
       ) : null}
-      {mmdPrefs.stageSkyEnabled && scenery==='astralCourt' ? <CourtSky/> : mmdPrefs.stageSkyEnabled && daySet ? <DaySky sun={lightCfg.sunPos} warm={lightPreset === "warm"} /> : mmdPrefs.stageSkyEnabled ? (
+      {mmdPrefs.stageSkyEnabled && scenery==='astralCourt' ? <CourtSky/> : mmdPrefs.stageSkyEnabled && (daySet||scenery==='chapel') ? <DaySky sun={lightCfg.sunPos} warm={lightPreset === "warm"||scenery==='chapel'} /> : mmdPrefs.stageSkyEnabled ? (
         <StageSky zenith={lightCfg.skyZenith} horizon={lightCfg.skyHorizon} bottom={lightCfg.fogColor} />
       ) : null}
       <ambientLight color={lightCfg.ambientColor} intensity={lightCfg.ambient} />

diff --git a/src/i18n/zh.ts b/src/i18n/zh.ts
@@ -3,6 +3,7 @@ export const zh = {
   importBindResource: "为此引用选择资源文件",
   hudBack: "返回观看",
   hudScenery: "场景",
+  chapelWindow:'百合彩窗',chapelDoor:'从正门看花园',chapelGarden:'薰衣草水庭',chapelFacade:'池畔回望教堂',
   courtTour:'游览机位',courtOverview:'俯看星桥',courtNorth:'北侧观星台',courtWest:'西侧星图库',courtEast:'东侧测星台',courtReturn:'桥上回望圆庭',
   visitKite:'去草坪',visitEncore:'去 Live House',visitFerry:'去泳池',visitPost:'去地台',toyHoldOrVisit:'可在此拿，换景可玩',toyList:'全部手持道具',
   toyKite:'借风线轴',toyKiteHint:'侧握换风，可递给角色',toyEncore:'丝带话筒',toyEncoreHint:'瞄准两翼，侧握染印',toyShell:'贝壳泡泡枪',toyShellHint:'瞄准拱门，侧握发船',

diff --git a/src/mmdVrShowcase/mmdVrStore.ts b/src/mmdVrShowcase/mmdVrStore.ts
@@ -467,7 +467,8 @@ export const useMmdVrStore = create<MmdVrStore>((set, get) => ({
     if (patch.physicsDynamicSelfCollision != null) prefs.physicsDynamicSelfCollision = Boolean(patch.physicsDynamicSelfCollision);
     prefsStorage.write(prefs);
     // Leaving a distant terrace should not start the next set 39m from its door.
-    const leaveDistrict = get().prefs.scenery === 'astralCourt' && prefs.scenery !== 'astralCourt';
+    const previousRoom=get().prefs.scenery;
+    const leaveDistrict = (previousRoom==='astralCourt'||previousRoom==='chapel')&&prefs.scenery!==previousRoom;
     set({ prefs, loop: prefs.loop, ...(leaveDistrict ? {viewEpoch:get().viewEpoch+1} : {}) });
   },
   cyclePhysicsColliderRadius: () => {
